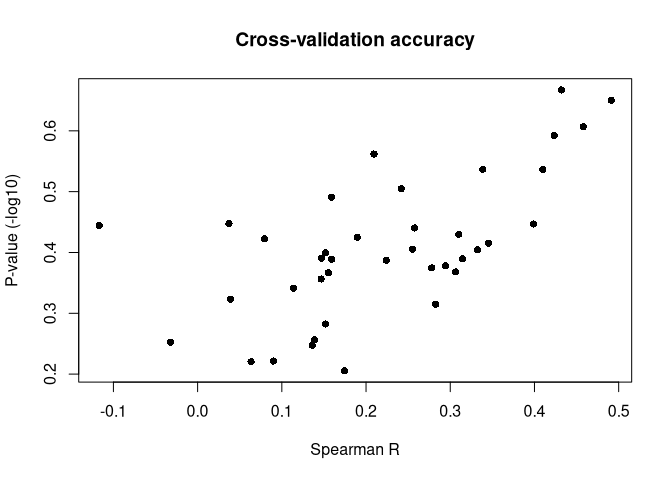
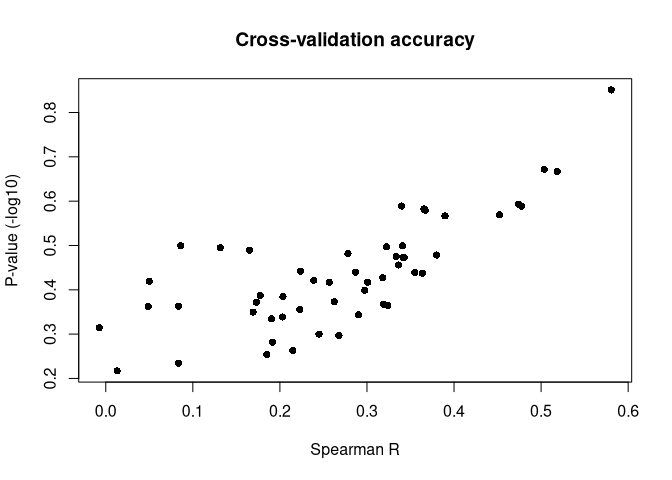
update README

diff --git a/README.md b/README.md
@@ -26,6 +26,7 @@ remotes::install_github("bioinformatist/ICE")
 ``` r
 library(ICE)
 data("mionco.circ")
+# Not in package up to now. Please follow section below to generate this dataset
 data("mionco.pcg")
 ```
 
@@ -47,16 +48,16 @@ data("mionco.pcg")
 #> Iteration 10
 #> Cross-validation complete
 #>             PCC      P-Value      RMSE
-#>  [1,] 0.3593281 7.884782e-04  8.729384
-#>  [2,] 0.3264386 2.441395e-03 12.647389
-#>  [3,] 0.5119432 6.444677e-07  9.898483
-#>  [4,] 0.4611714 1.010764e-05 11.491493
-#>  [5,] 0.4698115 6.523424e-06  8.570688
-#>  [6,] 0.2335763 3.248762e-02  6.581966
-#>  [7,] 0.4055682 1.295863e-04  5.622876
-#>  [8,] 0.4702542 6.376640e-06  9.019864
-#>  [9,] 0.3617744 7.213418e-04  9.110699
-#> [10,] 0.4553113 1.351237e-05  7.014257
+#>  [1,] 0.3733098 4.696102e-04 10.692914
+#>  [2,] 0.5613556 2.780094e-08  5.548638
+#>  [3,] 0.3292772 2.225004e-03  6.811714
+#>  [4,] 0.4831332 3.243019e-06 10.464265
+#>  [5,] 0.4401538 2.794478e-05  9.144700
+#>  [6,] 0.3978292 1.786365e-04  8.737620
+#>  [7,] 0.3871327 2.748662e-04  8.462851
+#>  [8,] 0.2717528 1.239881e-02  9.911899
+#>  [9,] 0.3668547 5.982701e-04 10.213629
+#> [10,] 0.4159487 8.320301e-05 10.029521
 ```
 
 ### Perform cross-validation analysis to determine the expected imputation accuracy of entire circRNA dataset
@@ -5774,7 +5775,7 @@ abline(h = -log10(0.05), lty = 3)
 ``` r
 # Find out which miRNAs were imputed with better accuracy 
 colnames(mionco.circ)[which(cv.full[,1] > 0.5)]
-#> character(0)
+#> [1] "hsa_circ_0000175" "hsa_circ_0000370" "hsa_circ_0000870"
 colnames(mionco.circ)[which(cv.full[,2] < 0.05)]
 #> character(0)
 ```
